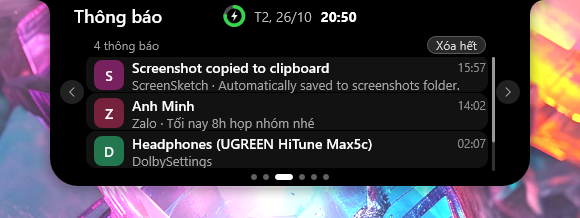
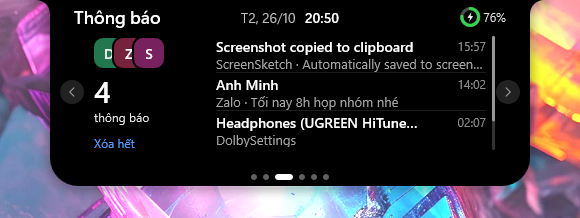
feat(notifications): the Notifications page as in the approved sample, with every notification as the same two lines; Clear all and the count in the left column; the weather's figures keep the tail of a g

diff --git a/src/render.rs b/src/render.rs
@@ -300,18 +300,15 @@ const FIGURES_Y: f32 = 152.0;
 const UNIT_W: f32 = 28.0;
 const UNIT_H: f32 = 18.0;
 
-/// Notifications page: rows of two lines.
-const NOTE_Y: f32 = 57.0;
+/// Notifications page: on the left the stack of the apps' tiles, the count and "Clear all" (in
+/// the same left column as the Tasks page's ring); on the right rows of two lines from `LIST_X` on.
+const NOTE_Y: f32 = 36.0;
 const NOTE_H: f32 = 38.0;
 pub const NOTE_ROWS: usize = 3;
-/// "Clear all" under the rows, right-aligned with their times: a pill hugging its label (the click
-/// area is this wide), inside the pages' clip, which ends at dots_y - 3.
+/// "Clear all" under the count, in the left column (the click area).
 const CLEAR_W: f32 = 64.0;
 const CLEAR_H: f32 = 18.0;
-/// The count of notifications and the clear button share the line above the list.
-const CLEAR_Y: f32 = 36.0;
-/// Room between the label and the pill's edge on each side.
-const CLEAR_PAD: f32 = 9.0;
+const CLEAR_Y: f32 = 134.0;
 /// Health page cards.
 const CARD_TOP: f32 = 34.0;
 /// The cards share the content's width; they end 28 px above the panel's bottom.
@@ -420,10 +417,10 @@ pub fn page_buttons(cx: f32, scale: f32, page: Page, rows: usize, scroll: usize,
         }
         Page::Notify => {
             for (row, i) in (scroll..rows.min(scroll + NOTE_ROWS)).enumerate() {
-                out.push((Button::NoteOpen(i), r(cl, NOTE_Y + row as f32 * NOTE_H, cw, NOTE_H - 4.0)));
+                out.push((Button::NoteOpen(i), r(cl + LIST_X, NOTE_Y + row as f32 * NOTE_H, cw - LIST_X, NOTE_H - 2.0)));
             }
             if rows > 0 {
-                out.push((Button::NotesClear, r(cl + cw - CLEAR_W, CLEAR_Y, CLEAR_W, CLEAR_H)));
+                out.push((Button::NotesClear, r(cl, CLEAR_Y, CLEAR_W, CLEAR_H)));
             }
         }
         Page::Usage => {
@@ -2379,65 +2376,68 @@ impl Renderer {
                             }
                         }
                         Page::Notify => {
-                            if v.notes.is_empty() {
-                                let area = rect(cl, NOTE_Y * s, cr, (NOTE_Y + NOTE_H * NOTE_ROWS as f32) * s);
-                                text(tr("Chưa có thông báo", "No notifications"), F_BODY, area, center, grey(0.55, a))?;
-                            }
+                            let (x0, xr) = (cl + LIST_X * s, cr);
                             let today = (lv.now / 10_000) as u32;
-                            if !v.notes.is_empty() {
-                                let count = format!("{} {}", v.notes.len(), tr("thông báo", "notifications"));
-                                text(&count, F_LABEL, rect(cl, CLEAR_Y * s, cr - (CLEAR_W + 8.0) * s, (CLEAR_Y + CLEAR_H) * s), lead, grey(0.6, a))?;
-                            }
-                            // Rows glide to their place after a wheel step: drawn from the fractional
-                            // position, inside the list's own clip.
-                            let pos = if current { lv.note_pos } else { 0.0 };
-                            let first = pos.floor().max(0.0) as usize;
-                            rt.PushAxisAlignedClip(&rect(cl - 8.0 * s, NOTE_Y * s, cr + 10.0 * s, (NOTE_Y + NOTE_H * NOTE_ROWS as f32 - 3.0) * s), D2D1_ANTIALIAS_MODE_ALIASED);
-                            for (row, n) in v.notes.iter().enumerate().skip(first).take(NOTE_ROWS + 1) {
-                                let y = (NOTE_Y + (row as f32 - pos) * NOTE_H) * s;
-                                // Each notification is a card; the one under the mouse
-                                // lights up: clicking it opens the notification.
-                                let hot = hovered == Some(Button::NoteOpen(row));
-                                let card = rect(cl - 8.0 * s, y - 2.0 * s, cr + 2.0 * s, y + (NOTE_H - 3.0) * s);
-                                rt.FillRoundedRectangle(&rounded(card, 10.0 * s), &self.brush(grey(if hot { 0.13 } else { 0.07 }, a))?);
-                                // Line 1: title, time on the right. Line 2: app · text.
-                                let day = (n.at / 10_000) as u32;
-                                let when = if day == today { format!("{:02}:{:02}", n.at / 100 % 100, n.at % 100) }
-                                    else if todo::next_day(day) == today { tr("Hôm qua", "Yesterday").to_string() }
-                                    else { format!("{:02}/{:02}", day % 100, day / 100 % 100) };
-                                // App tile: its initial on a colour taken from its name.
-                                let tile = rect(cl, y + 3.0 * s, cl + 30.0 * s, y + 33.0 * s);
+                            // An app's tile: its own icon on a light-grey tile, or its initial on a colour taken from its name.
+                            let note_tile = |row: usize, tile: D2D_RECT_F| -> Result<()> {
+                                let Some(n) = v.notes.get(row) else { return Ok(()) };
                                 match note_icons.get(row).and_then(|i| i.as_ref()) {
-                                    // The app's own icon on a light-grey tile, so dark logos show on black.
                                     Some(icon) => {
-                                        rt.FillRoundedRectangle(&rounded(tile, 8.0 * s), &self.brush(grey(0.16, a))?);
+                                        rt.FillRoundedRectangle(&rounded(tile, 9.0 * s), &self.brush(grey(0.16, a))?);
                                         rt.DrawBitmap(icon, Some(&rect(tile.left + 3.0 * s, tile.top + 3.0 * s, tile.right - 3.0 * s, tile.bottom - 3.0 * s)), a, D2D1_BITMAP_INTERPOLATION_MODE_LINEAR, None);
                                     }
                                     None => {
                                         let (tr_, tg, tb) = app_tint(&n.app);
-                                        rt.FillRoundedRectangle(&rounded(tile, 8.0 * s), &self.brush(color(tr_, tg, tb, a))?);
+                                        rt.FillRoundedRectangle(&rounded(tile, 9.0 * s), &self.brush(color(tr_, tg, tb, a))?);
                                         text(&app_initial(&n.app), F_TITLE, tile, center, grey(1.0, a))?;
                                     }
                                 }
-                                let tx = cl + 38.0 * s;
-                                text(&when, F_LABEL, rect(cr - 64.0 * s, y, cr, y + 20.0 * s), trail, grey(0.55, a))?;
-                                text(&n.title, F_TITLE, rect(tx, y, cr - 68.0 * s, y + 20.0 * s), lead, grey(1.0, a))?;
+                                Ok(())
+                            };
+                            // Left: the newest apps' tiles stacked (the newest on top), how many notifications, Clear all.
+                            let stack = v.notes.len().min(3);
+                            for j in 0..stack {
+                                let row = stack - 1 - j;
+                                let tile = rect(cl + j as f32 * 20.0 * s, 38.0 * s, cl + (j as f32 * 20.0 + 30.0) * s, 68.0 * s);
+                                rt.FillRoundedRectangle(&rounded(rect(tile.left - 2.0 * s, tile.top - 2.0 * s, tile.right + 2.0 * s, tile.bottom + 2.0 * s), 11.0 * s), &self.brush(grey(0.0, a))?);
+                                note_tile(row, tile)?;
+                            }
+                            text(&v.notes.len().to_string(), F_FIGURE, rect(cl, 74.0 * s, cl + HERO_W * s, 108.0 * s), lead, grey(1.0, a))?;
+                            text(tr("thông báo", "notifications"), F_LABEL, rect(cl, 108.0 * s, cl + HERO_W * s, 126.0 * s), lead, grey(0.9, a))?;
+                            if let Some(cb) = rect_of(Button::NotesClear) {
+                                let hot = hovered == Some(Button::NotesClear);
+                                text(tr("Xóa hết", "Clear all"), F_LABEL, cb, lead, if hot { color(0.75, 0.85, 1.0, a) } else { solid(BLUE, a) })?;
+                            }
+                            if v.notes.is_empty() {
+                                let area = rect(x0, NOTE_Y * s, xr, (NOTE_Y + NOTE_H * NOTE_ROWS as f32) * s);
+                                text(tr("Chưa có thông báo", "No notifications"), F_BODY, area, center, grey(0.55, a))?;
+                            }
+                            // Right: the same two lines for every notification (the title and its time, then the app and
+                            // the text, cut with "..." when long). Rows glide to their place after a wheel step: drawn
+                            // from the fractional position, inside the list's own clip.
+                            let pos = if current { lv.note_pos } else { 0.0 };
+                            let first = pos.floor().max(0.0) as usize;
+                            rt.PushAxisAlignedClip(&rect(x0 - 8.0 * s, NOTE_Y * s, xr + 10.0 * s, (NOTE_Y + NOTE_H * NOTE_ROWS as f32 - 3.0) * s), D2D1_ANTIALIAS_MODE_ALIASED);
+                            for (row, n) in v.notes.iter().enumerate().skip(first).take(NOTE_ROWS + 1) {
+                                let y = (NOTE_Y + (row as f32 - pos) * NOTE_H) * s;
+                                // The row under the mouse lights up: clicking it opens the notification.
+                                if hovered == Some(Button::NoteOpen(row)) {
+                                    rt.FillRoundedRectangle(&rounded(rect(x0 - 6.0 * s, y - 1.0 * s, xr + 2.0 * s, y + (NOTE_H - 3.0) * s), 8.0 * s), &self.brush(grey(0.08, a))?);
+                                }
+                                if row + 1 < v.notes.len() {
+                                    rt.FillRectangle(&rect(x0, y + (NOTE_H - 2.0) * s, xr, y + (NOTE_H - 1.0) * s), &self.brush(grey(0.11, a))?);
+                                }
+                                let day = (n.at / 10_000) as u32;
+                                let when = if day == today { format!("{:02}:{:02}", n.at / 100 % 100, n.at % 100) }
+                                    else if todo::next_day(day) == today { tr("Hôm qua", "Yesterday").to_string() }
+                                    else { format!("{:02}/{:02}", day % 100, day / 100 % 100) };
+                                text(&when, F_LABEL, rect(xr - 64.0 * s, y, xr, y + 20.0 * s), trail, grey(0.55, a))?;
+                                text(&n.title, F_TITLE, rect(x0, y, xr - 68.0 * s, y + 20.0 * s), lead, grey(1.0, a))?;
                                 let line2 = if n.body.is_empty() { n.app.clone() } else { format!("{} · {}", n.app, n.body) };
-                                text(&line2, F_BODY, rect(tx, y + 19.0 * s, cr, y + 37.0 * s), lead, grey(0.65, a))?;
+                                text(&line2, F_BODY, rect(x0, y + 19.0 * s, xr, y + 37.0 * s), lead, grey(0.65, a))?;
                             }
                             rt.PopAxisAlignedClip();
                             scrollbar(v.notes.len(), NOTE_ROWS, NOTE_Y, NOTE_H)?;
-                            if let Some(cb) = rect_of(Button::NotesClear) {
-                                let hot = hovered == Some(Button::NotesClear);
-                                let label = tr("Xóa hết", "Clear all");
-                                let pw = (width(label, F_LABEL) + 2.0 * CLEAR_PAD * s).min(cb.right - cb.left);
-                                let pb = rect((cb.right - pw).round(), cb.top.round(), cb.right.round(), cb.bottom.round());
-                                let radius = (pb.bottom - pb.top) / 2.0;
-                                rt.FillRoundedRectangle(&rounded(pb, radius), &self.brush(grey(if hot { 0.28 } else { 0.16 }, a))?);
-                                let edge = rect(pb.left + 0.5, pb.top + 0.5, pb.right - 0.5, pb.bottom - 0.5);
-                                rt.DrawRoundedRectangle(&rounded(edge, radius - 0.5), &self.brush(grey(1.0, a * if hot { 0.35 } else { 0.22 }))?, 1.0, None);
-                                text(label, F_LABEL, pb, center, grey(if hot { 1.0 } else { 0.85 }, a))?;
-                            }
                         }
                         Page::Usage => self.draw_usage(&text, &width, &btns, (cl, cr), s, a, hovered)?,
                         Page::Weather => {
@@ -2513,7 +2513,7 @@ impl Renderer {
                                     let gap = ((cr - cl) - widths.iter().sum::<f32>()).max(0.0) / (figures.len().max(2) - 1) as f32;
                                     let mut fx = cl;
                                     for (label, fw) in figures.iter().zip(&widths) {
-                                        text(label, F_LABEL, rect(fx, FIGURES_Y * s, fx + fw, (FIGURES_Y + 14.0) * s), lead, grey(0.65, a * fade))?;
+                                        text(label, F_LABEL, rect(fx, (FIGURES_Y - 2.0) * s, fx + fw, (FIGURES_Y + 16.0) * s), lead, grey(0.65, a * fade))?;
                                         fx += fw + gap;
                                     }
                                 }
@@ -3079,13 +3079,14 @@ mod tests {
     }
 
     #[test]
-    fn clear_all_sits_above_the_rows_and_the_rows_fit_the_panel() {
+    fn clear_all_sits_in_the_left_column_and_the_rows_fit_the_panel() {
         let ph = panel_size(Page::Notify)[1];
-        assert!(CLEAR_Y + CLEAR_H <= NOTE_Y, "above the first row");
+        assert!(CLEAR_W <= HERO_W && CLEAR_Y + CLEAR_H <= dots_y(ph) - 3.0, "Clear all stays in the left column, above the dots");
         assert!(NOTE_Y + NOTE_H * NOTE_ROWS as f32 <= dots_y(ph) - 3.0, "the rows end inside the pages' clip");
         for scale in [1.0, 1.5] {
             let cx = 265.0 * scale;
-            let (x, y) = (cx + (220.0 - SIDE - 10.0) * scale, (CLEAR_Y + CLEAR_H / 2.0) * scale);
+            // The left column starts one SIDE in from the panel's left edge (it is 480 wide).
+            let (x, y) = (cx + (-240.0 + SIDE + CLEAR_W / 2.0) * scale, (CLEAR_Y + CLEAR_H / 2.0) * scale);
             assert_eq!(hit_button(cx, scale, x, y, None, Page::Notify, 2, 0, None, false), Some(Button::NotesClear));
             assert_eq!(hit_button(cx, scale, x, y, None, Page::Notify, 0, 0, None, false), None, "nothing to clear: no button");
         }
